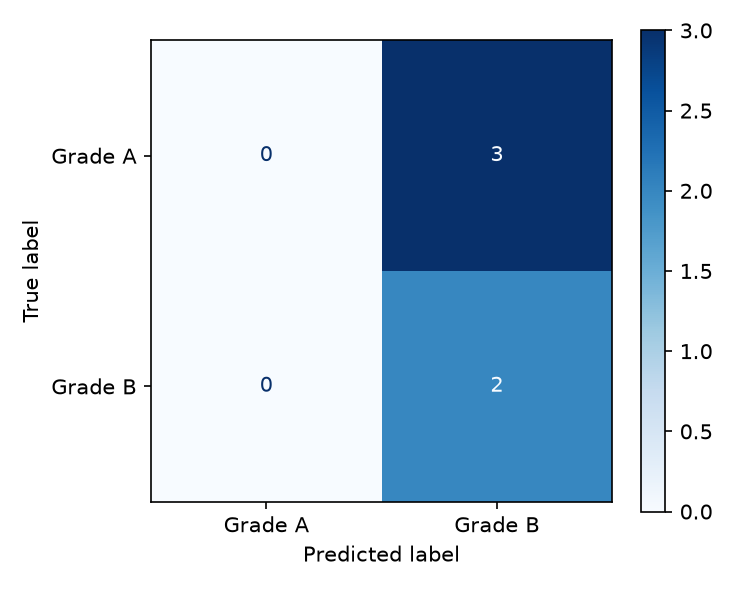
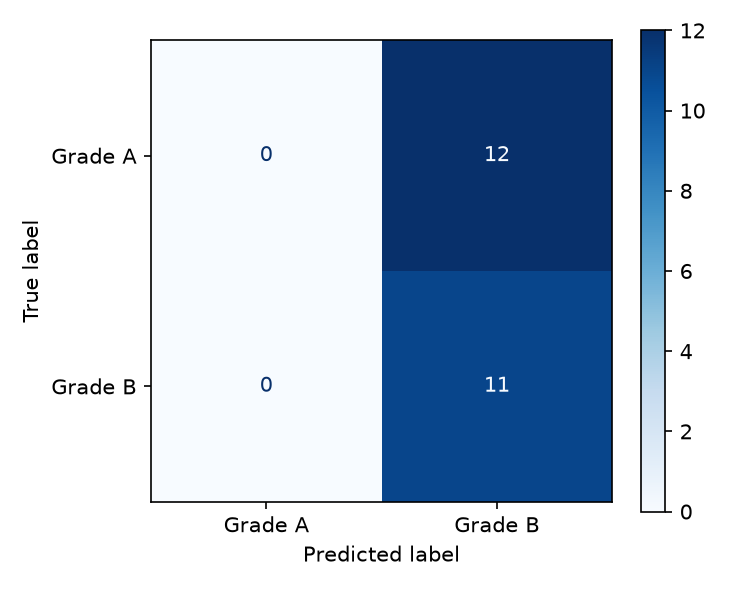
Enhance batch processing to apply augmentation to all audio files before stratified split

diff --git a/src/batch_process.py b/src/batch_process.py
@@ -3,18 +3,19 @@ batch_process.py — Batch Preprocessing & Stratified Split Runner with Augmenta
 
 Purpose:
   Scans all raw audio files from data/raw/grade_{a,b}, runs them through
-  preprocess_audio(), stacks into unified NumPy matrices, performs a
-  stratified 70/15/15 train/val/test split, and augments the training set.
+  preprocess_audio(), applies 4× waveform-level augmentation to every file,
+  stacks into unified NumPy matrices, then performs a stratified 70/15/15
+  train/val/test split on the combined set of original + augmented samples.
 
-Augmentation (training set only):
-  - Pitch shift (±2 semitones)
+Augmentation (applied to all files before split):
+  - Pitch shift (+2 semitones)
+  - Pitch shift (-2 semitones)
   - Time stretch (1.1x)
   - Additive Gaussian noise
 
 Output (6 files in data/processed/):
-  X_train.npy, y_train.npy    (70%, augmented)
-  X_val.npy,   y_val.npy      (15%)
-  X_test.npy,  y_test.npy     (15%)
+  30 files × (1 original + 4 augmented) = 150 total samples
+  Stratified 70/15/15 split → ~105 train / ~22 val / ~23 test
 
 Class labels:
   grade_a → 0,  grade_b → 1
@@ -76,49 +77,53 @@ def run_pipeline() -> None:
     paths = [p for p, l in items]
     labels = [l for p, l in items]
 
-    # Stratified split by index (before processing)
+    os.makedirs(OUT, exist_ok=True)
+
+    # Process every file: original + 4 augmented versions
+    X_all, y_all = [], []
+    print("Processing all files with augmentation ...")
+    for i in tqdm(range(len(paths)), desc="Processing"):
+        path = paths[i]
+        label = labels[i]
+        try:
+            feat = preprocess_audio(path)
+            X_all.append(feat)
+            y_all.append(label)
+
+            y_raw, sr = librosa.load(path, sr=SR, mono=True)
+            for aug_name, aug_fn in AUGMENTATIONS:
+                try:
+                    y_aug = aug_fn(y_raw.copy(), sr)
+                    feat_aug = audio_to_mel(y_aug, sr)
+                    X_all.append(feat_aug)
+                    y_all.append(label)
+                except Exception as exc:
+                    print(f"\n  ! {aug_name} failed for {os.path.relpath(path, BASE)}: {exc}")
+        except Exception as exc:
+            print(f"\n  \u2717 {os.path.relpath(path, BASE)} \u2014 {exc}")
+
+    X_all = np.stack(X_all, axis=0)
+    y_all = np.array(y_all, dtype=np.int32)
+    print(f"  Total samples: {X_all.shape[0]} (original + 4x augmented)\n")
+
+    # Stratified 70/15/15 split on ALL samples
     train_idx, test_idx = train_test_split(
-        np.arange(len(paths)), test_size=0.15, stratify=labels, random_state=42
+        np.arange(len(X_all)), test_size=0.15, stratify=y_all, random_state=42
     )
     train_idx, val_idx = train_test_split(
         train_idx, test_size=0.15 / 0.85,
-        stratify=[labels[i] for i in train_idx], random_state=42
+        stratify=y_all[train_idx], random_state=42
     )
 
     splits = {
-        "train": (train_idx, True),
-        "val":   (val_idx,   False),
-        "test":  (test_idx,  False),
+        "train": train_idx,
+        "val":   val_idx,
+        "test":  test_idx,
     }
 
-    os.makedirs(OUT, exist_ok=True)
-
-    for split_name, (indices, do_augment) in splits.items():
-        X_split, y_split = [], []
-        desc = f"Processing {split_name}"
-        for i in tqdm(indices, desc=desc):
-            path = paths[i]
-            label = labels[i]
-            try:
-                feat = preprocess_audio(path)
-                X_split.append(feat)
-                y_split.append(label)
-
-                if do_augment:
-                    y_raw, sr = librosa.load(path, sr=SR, mono=True)
-                    for aug_name, aug_fn in AUGMENTATIONS:
-                        try:
-                            y_aug = aug_fn(y_raw.copy(), sr)
-                            feat_aug = audio_to_mel(y_aug, sr)
-                            X_split.append(feat_aug)
-                            y_split.append(label)
-                        except Exception as exc:
-                            print(f"\n  ! {aug_name} failed for {os.path.relpath(path, BASE)}: {exc}")
-            except Exception as exc:
-                print(f"\n  \u2717 {os.path.relpath(path, BASE)} \u2014 {exc}")
-
-        X_arr = np.stack(X_split, axis=0)
-        y_arr = np.array(y_split, dtype=np.int32)
+    for split_name, indices in splits.items():
+        X_arr = X_all[indices]
+        y_arr = y_all[indices]
 
         name_x = f"X_{split_name}.npy"
         name_y = f"y_{split_name}.npy"
@@ -138,7 +143,7 @@ def run_pipeline() -> None:
         test_c  = int((y_test  == label).sum())
         print(f"  {grade_name} ({label}):  train={train_c}  val={val_c}  test={test_c}")
 
-    print(f"\nAugmentation: training set expanded 5x (1 original + 4 augmented)")
+    print(f"\nAugmentation: all files expanded 5x before split")
 
 
 if __name__ == "__main__":

diff --git a/doc/SYSTEM_ARCHITECTURE.md b/doc/SYSTEM_ARCHITECTURE.md
@@ -23,7 +23,7 @@ This system classifies bricks into two grades (Grade A / Grade B) by analyzing t
 **Key components:**
 - **Audio Preprocessing** (`preprocess.py`): Raw audio → normalized Mel-spectrograms
 - **Augmentation** (`augment.py`): Waveform-level perturbations to expand small datasets
-- **Batch Processing** (`batch_process.py`): Orchestrates loading, splitting, augmenting, saving
+- **Batch Processing** (`batch_process.py`): Orchestrates loading, augmenting all files, splitting, saving
 - **CNN Model** (`model.py`): 2D CNN architecture (~110K parameters)
 - **Training** (`train.py`): Training loop with callbacks
 - **Evaluation** (`evaluate.py`): Test-set metrics and figures
@@ -49,36 +49,41 @@ This system classifies bricks into two grades (Grade A / Grade B) by analyzing t
                                      | librosa.load(sr=22050, mono=True)
                                      v
                            +---------+---------+
+                           |  PREROCESSING +   |
+                           |  AUGMENTATION     |
+                           |  (applied to all  |
+                           |   30 files)       |
+                           |                   |
+                           |  For each file:   |
+                           |  1. preprocess    |
+                           |     audio→mel     |
+                           |  2. pitch_shift+2 |
+                           |  3. pitch_shift-2 |
+                           |  4. time_stretch  |
+                           |  5. add_noise     |
+                           +---------+---------+
+                                     |
+                                     | 30 × 5 = 150 samples
+                                     v
+                           +---------+---------+
                            |  STRATIFIED SPLIT |
-                           |  70/15/15 split   |
-                           | (by file index)   |
+                           |  70/15/15 on 150  |
                            +----+----+----+----+
                                 |    |    |
                    +------------+    |    +------------+
                    |                 |                 |
                    v                 v                 v
            +-------+-------+  +-----+-----+  +--------+------+
-           |   TRAIN SET    |  |  VAL SET   |  |   TEST SET   |
-           |  (20 files)    |  |  (5 files)  |  |  (5 files)   |
+           |   TRAIN        |  |  VAL       |  |  TEST        |
+           |  ~105 samples  |  |  ~22       |  |  ~23         |
+           |  (128,130,1)   |  |  samples   |  |  samples     |
            +-------+-------+  +------+------+  +-------+------+
                    |                  |                 |
-                   |  preprocess      |  preprocess    |  preprocess
                    v                  v                 v
            +-------+-------+  +------+------+  +-------+------+
-           |  Mel-spectro   |  |  Mel-spectro |  |  Mel-spectro|
-           |  gram (128,130) |  |  gram (5)    |  |  gram (5)   |
+           | X_train.npy   |  | X_val.npy   |  | X_test.npy   |
+           | y_train.npy   |  | y_val.npy   |  | y_test.npy   |
            +-------+-------+  +------+------+  +-------+------+
-                   |
-                   | AUGMENTATION (×4 per file)
-                   |   pitch_shift(+2)
-                   |   pitch_shift(-2)
-                   |   time_stretch(1.1)
-                   |   add_noise(0.005)
-                   v
-           +-------+-------+
-           | X_train (100)  |   5× expansion:
-           | (128,130,1)    |   20 orig + 80 aug
-           +----------------+
                    |
                    v
            +----------------+      +----------------+
@@ -135,7 +140,8 @@ Step 2: Raw Data Collection (Manual)
 
 Step 3: Batch Preprocessing
   └─ python src/batch_process.py
-  └─ Converts all audio → Mel-spectrograms, splits, augments, saves .npy
+  └─ Converts all audio → Mel-spectrograms, augments ALL files
+      (4× each), then splits 70/15/15, saves .npy
 
 Step 4 (Optional): Hyperparameter Search
   └─ python src/hparam_search.py
@@ -202,16 +208,7 @@ This is the most complex step. It consists of several sub-steps:
 | **Logic** | Uses `glob.glob()` with extension patterns; yields `(filepath, label)` tuples; supports multiple audio formats |
 | **Outcome** | Complete list of all data files with their class labels |
 
-#### 3b. Stratified Train/Val/Test Split
-
-| Aspect | Detail |
-|--------|--------|
-| **What it does** | Splits file indices into 70% train, 15% validation, 15% test while preserving class proportions |
-| **Why needed** | Ensures each split has representative class distribution; prevents data leakage by splitting before any processing |
-| **Logic** | Two-stage `train_test_split` with `stratify` parameter: first splits off 15% as test, then splits 15/85 of remaining as val; `random_state=42` ensures reproducibility |
-| **Outcome** | Three index arrays: train (20 files), val (5 files), test (5 files) with balanced classes |
-
-#### 3c. Audio Loading (`librosa.load`)
+#### 3b. Audio Loading (`librosa.load`)
 
 | Aspect | Detail |
 |--------|--------|
@@ -220,7 +217,7 @@ This is the most complex step. It consists of several sub-steps:
 | **Logic** | `sr=SR` resamples to exactly 22050 Hz (standard for speech/audio ML); `mono=True` collapses stereo to single channel reducing data dimensionality |
 | **Outcome** | Raw waveform `y` of shape `(N,)` where N = samples at 22050 Hz |
 
-#### 3d. Noise Reduction (`noisereduce.reduce_noise`)
+#### 3c. Noise Reduction (`noisereduce.reduce_noise`)
 
 | Aspect | Detail |
 |--------|--------|
@@ -229,7 +226,7 @@ This is the most complex step. It consists of several sub-steps:
 | **Logic** | `stationary=False` uses non-stationary noise reduction (better for varying noise); `prop_decrease=0.85` reduces noise by 85% (aggressive but preserves signal) |
 | **Outcome** | Cleaned waveform with reduced background noise |
 
-#### 3e. Silence Trimming (`librosa.effects.trim`)
+#### 3d. Silence Trimming (`librosa.effects.trim`)
 
 | Aspect | Detail |
 |--------|--------|
@@ -238,7 +235,7 @@ This is the most complex step. It consists of several sub-steps:
 | **Logic** | `top_db=30` — frames below 30 dB relative to max are considered silence and removed |
 | **Outcome** | Trimmed waveform containing only the active brick strike sound |
 
-#### 3f. Length Normalization (Pad/Crop to 3 seconds)
+#### 3e. Length Normalization (Pad/Crop to 3 seconds)
 
 | Aspect | Detail |
 |--------|--------|
@@ -247,7 +244,7 @@ This is the most complex step. It consists of several sub-steps:
 | **Logic** | If shorter: pad equally on both sides (preserves temporal alignment); if longer: center-crop (assumes strike is in the middle). 3 seconds is generous to capture full strike + resonance |
 | **Outcome** | Uniform-length waveform: exactly 66150 samples |
 
-#### 3g. Mel-Spectrogram Conversion
+#### 3f. Mel-Spectrogram Conversion
 
 | Aspect | Detail |
 |--------|--------|
@@ -256,7 +253,7 @@ This is the most complex step. It consists of several sub-steps:
 | **Logic** | `n_mels=128` provides good frequency resolution; `hop_length=512` gives ~46 frames/second; 130 time frames from 66150/512 ≈ 129.2 → 130 |
 | **Outcome** | 2D array (128 × 130) representing time-frequency energy distribution |
 
-#### 3h. Log Amplitude Conversion (`power_to_db`)
+#### 3g. Log Amplitude Conversion (`power_to_db`)
 
 | Aspect | Detail |
 |--------|--------|
@@ -265,7 +262,7 @@ This is the most complex step. It consists of several sub-steps:
 | **Logic** | `ref=np.max` normalizes so the loudest point is 0 dB; all other values become negative dB |
 | **Outcome** | Log-scaled spectrogram where values represent dB relative to peak |
 
-#### 3i. Min-Max Normalization
+#### 3h. Min-Max Normalization
 
 | Aspect | Detail |
 |--------|--------|
@@ -274,7 +271,7 @@ This is the most complex step. It consists of several sub-steps:
 | **Logic** | `(x - min) / (max - min)` — preserves relative differences; safe division handles edge case of constant input |
 | **Outcome** | Normalized spectrogram with values in [0, 1], dtype float32 |
 
-#### 3j. Channel Dimension Addition
+#### 3i. Channel Dimension Addition
 
 | Aspect | Detail |
 |--------|--------|
@@ -283,14 +280,23 @@ This is the most complex step. It consists of several sub-steps:
 | **Logic** | `np.newaxis` at the last axis creates a single-channel "image" |
 | **Outcome** | 3D tensor (128, 130, 1) ready for CNN input |
 
-#### 3k. Data Augmentation (Training Set Only)
+#### 3j. Data Augmentation (Applied to Every File)
 
 | Aspect | Detail |
 |--------|--------|
-| **What it does** | For each training file, creates 4 additional versions via pitch shift (±2 semitones), time stretch (1.1×), and additive Gaussian noise |
-| **Why needed** | Only 20 original training samples — far too few for deep learning. Augmentation creates plausible variations, acting as a regularizer and expanding the effective dataset size |
-| **Logic** | Applied at waveform level (before spectrogram) for realism; each augmentation preserves the class label; combats overfitting by exposing the model to diverse acoustic conditions |
-| **Outcome** | 5× expansion: 20 files → 100 training samples |
+| **What it does** | For every file, creates 4 additional versions via pitch shift (±2 semitones), time stretch (1.1×), and additive Gaussian noise |
+| **Why needed** | Only 30 original samples — too few for deep learning. Augmentation creates plausible variations, expanding the total sample pool before splitting |
+| **Logic** | Applied at waveform level (before spectrogram) for realism; each augmentation preserves the class label |
+| **Outcome** | 5× expansion: 30 files → 150 total samples (original + 4 augmented each) |
+
+#### 3k. Stratified Train/Val/Test Split
+
+| Aspect | Detail |
+|--------|--------|
+| **What it does** | Splits the 150 augmented samples into 70% train, 15% validation, 15% test while preserving class proportions |
+| **Why needed** | Ensures each split has representative class distribution |
+| **Logic** | Two-stage `train_test_split` with `stratify` parameter: first splits off 15% as test, then splits 15/85 of remaining as val; `random_state=42` ensures reproducibility |
+| **Outcome** | Train (~105), val (~22), test (~23) samples with balanced classes |
 
 #### 3l. Save NumPy Arrays
 
@@ -299,7 +305,7 @@ This is the most complex step. It consists of several sub-steps:
 | **What it does** | Saves stacked arrays to `data/processed/` as 6 `.npy` files |
 | **Why needed** | Decouples expensive preprocessing from training; allows multiple training runs without reprocessing |
 | **Logic** | `np.stack` creates uniform 4D batches; `np.save` uses efficient binary format |
-| **Outcome** | `X_train (100,128,130,1)`, `y_train (100,)`, `X_val (5,...)`, `y_val (5,)`, `X_test (5,...)`, `y_test (5,)` |
+| **Outcome** | `X_train (~105,128,130,1)`, `y_train (~105,)`, `X_val (~22,...)`, `y_val (~22,)`, `X_test (~23,...)`, `y_test (~23,)` |
 
 ### Step 4: Hyperparameter Search (`src/hparam_search.py`)
 
@@ -394,14 +400,14 @@ This is the most complex step. It consists of several sub-steps:
 ## 5. Outputs Summary
 
 ### Data Files (`data/processed/`)
-| File | Shape | Description |
-|------|-------|-------------|
-| `X_train.npy` | (100, 128, 130, 1) | Training features (5× augmented) |
-| `y_train.npy` | (100,) | Training labels |
-| `X_val.npy` | (5, 128, 130, 1) | Validation features |
-| `y_val.npy` | (5,) | Validation labels |
-| `X_test.npy` | (5, 128, 130, 1) | Test features |
-| `y_test.npy` | (5,) | Test labels |
+| File | Approx. Shape | Description |
+|------|---------------|-------------|
+| `X_train.npy` | (~105, 128, 130, 1) | Training features (augment-all before split) |
+| `y_train.npy` | (~105,) | Training labels |
+| `X_val.npy` | (~22, 128, 130, 1) | Validation features |
+| `y_val.npy` | (~22,) | Validation labels |
+| `X_test.npy` | (~23, 128, 130, 1) | Test features |
+| `y_test.npy` | (~23,) | Test labels |
 
 ### Model Files (`models/`)
 | File | Description |
